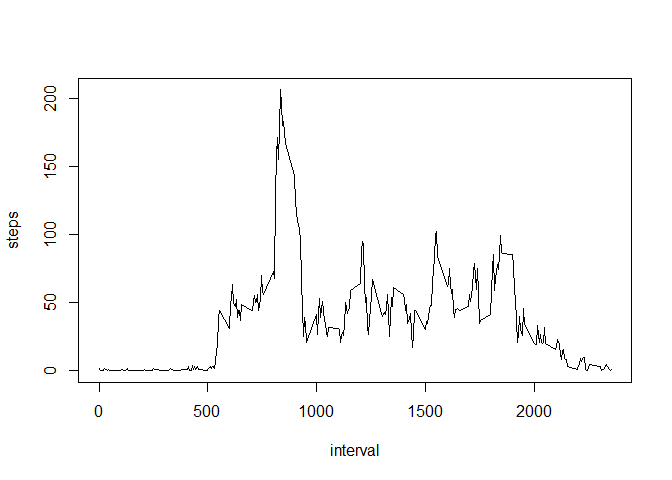
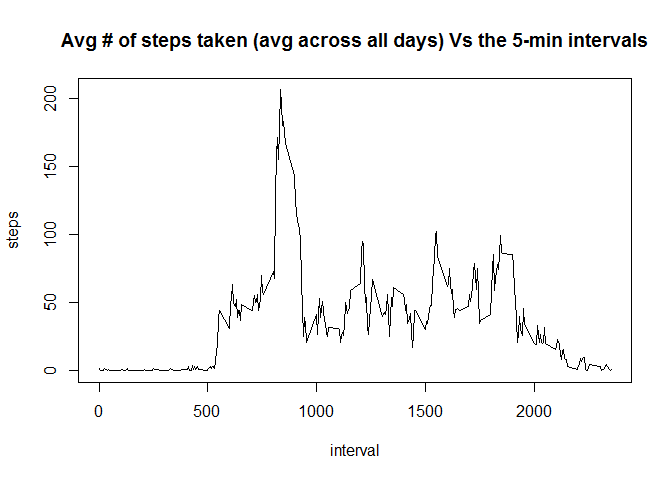
Adjusted some wordings of graph titles to match required answer

Changed region(s): [[0.0938, 0.0625, 0.9688, 0.125]]

diff --git a/PA1_template.html b/PA1_template.html
@@ -75,8 +75,8 @@ options(scipen = 1, digits = 2)</code></pre>
 aggr &lt;- aggregate(steps ~ date, clean, sum)</code></pre>
 <p>Plot the histogram for total number of steps taken per day</p>
 <pre class="r"><code>## Plot the histogram of 'total steps taken per day'
-with(aggr, hist(steps, breaks=seq(0,24000,3000), xlim=c(0,25000), ylim=c(0,20), main=&quot;Total steps taken per day&quot;))</code></pre>
[1 lines of base64/hex data omitted]
+with(aggr, hist(steps, breaks=seq(0,24000,3000), xlim=c(0,25000), ylim=c(0,20), main=&quot;Total number of steps taken each day&quot;))</code></pre>
[1 lines of base64/hex data omitted]
 <pre class="r"><code>## Report the mean and median, rounded to an integer since we cannot have fraction of a step.
 rep.mean &lt;- round(mean(aggr$steps), 0)
 rep.median &lt;- median(aggr$steps)</code></pre>
@@ -92,8 +92,8 @@ rep.median &lt;- median(aggr$steps)</code></pre>
 aggr2 &lt;- aggregate(steps ~ interval, clean, function(x) round(mean(x),0))</code></pre>
 <p>Plot the time series line graph of interval against average steps</p>
 <pre class="r"><code>## Plot the time series line graph of 'average steps taken per interval'
-with(aggr2, plot(interval, steps, type='l'))</code></pre>
[1 lines of base64/hex data omitted]
+with(aggr2, plot(interval, steps, type='l', main=&quot;Avg # of steps taken (avg across all days) Vs the 5-min intervals&quot;))</code></pre>
[1 lines of base64/hex data omitted]
 <pre class="r"><code>## Report which 5-minute interval on average across all days contains the maximum number of steps
 max.steps &lt;- with(aggr2, aggr2[steps==max(steps),])</code></pre>
 <div id="answer-1" class="section level3">
@@ -103,6 +103,8 @@ max.steps &lt;- with(aggr2, aggr2[steps==max(steps),])</code></pre>
 </div>
 <div id="imputing-missing-values" class="section level2">
 <h2>Imputing missing values</h2>
+<div id="strategy-to-fill-in-missing-values" class="section level3">
+<h3>Strategy to fill in missing values</h3>
 <p>Let’s use daily average steps taken for each interval to replace the NAs in the original dataset since we have already obtained the average data.<br />The original dataset is duplicated and merged with the data frame with daily average steps taken for each interval by using the ‘interval’ column as index. This creates an additional column ‘steps.y’ containing the average values for each interval and the original column ‘steps’ is renamed as ‘steps.x’.<br />Next, we copy column ‘steps.y’ to column ‘steps.x’ for only rows with NA.</p>
 <pre class="r"><code>## Duplicate original dataset and merge with data frame (aggr2) containing daily average steps taken for each interval
 dat2 &lt;- dat
@@ -116,11 +118,12 @@ colnames(dat2)[2] &lt;- &quot;steps&quot;</code></pre>
 aggr3 &lt;- aggregate(steps ~ date, dat2, sum)
 
 ## Plot the histogram of 'total steps taken per day'
-with(aggr3, hist(steps, breaks=seq(0,24000,3000), xlim=c(0,25000), ylim=c(0,25), main=&quot;Total steps taken per day&quot;))</code></pre>
[1 lines of base64/hex data omitted]
+with(aggr3, hist(steps, breaks=seq(0,24000,3000), xlim=c(0,25000), ylim=c(0,25), main=&quot;Total number of steps taken each day&quot;))</code></pre>
[1 lines of base64/hex data omitted]
 <pre class="r"><code>## Report the mean and median, rounded to an integer since we cannot have fraction of a step.
 rep.mean2 &lt;- round(mean(aggr3$steps), 0)
 rep.median2 &lt;- median(aggr3$steps)</code></pre>
+</div>
 <div id="answer-2" class="section level3">
 <h3>Answer</h3>
 <p>The mean is <strong>10766</strong> steps and median is <strong>10762</strong> steps.<br />Based on the histogram, the frequency of mean value increased compared to the previous. For the results, the mean value remains unchanged but the median value changed.</p>

diff --git a/PA1_template.md b/PA1_template.md
@@ -28,7 +28,7 @@ Plot the histogram for total number of steps taken per day
 
 ```r
 ## Plot the histogram of 'total steps taken per day'
-with(aggr, hist(steps, breaks=seq(0,24000,3000), xlim=c(0,25000), ylim=c(0,20), main="Total steps taken per day"))
+with(aggr, hist(steps, breaks=seq(0,24000,3000), xlim=c(0,25000), ylim=c(0,20), main="Total number of steps taken each day"))
 ```
 
 ![](figure/unnamed-chunk-3-1.png) 
@@ -53,7 +53,7 @@ Plot the time series line graph of interval against average steps
 
 ```r
 ## Plot the time series line graph of 'average steps taken per interval'
-with(aggr2, plot(interval, steps, type='l'))
+with(aggr2, plot(interval, steps, type='l', main="Avg # of steps taken (avg across all days) Vs the 5-min intervals"))
 ```
 
 ![](figure/unnamed-chunk-5-1.png) 
@@ -66,6 +66,7 @@ max.steps <- with(aggr2, aggr2[steps==max(steps),])
 The interval of **835** contains the maximum number of steps in average (**206** steps).
 
 ## Imputing missing values
+### Strategy to fill in missing values
 Let's use daily average steps taken for each interval to replace the NAs in the original dataset since we have already obtained the average data.  
 The original dataset is duplicated and merged with the data frame with daily average steps taken for each interval by using the 'interval' column as index. This creates an additional column 'steps.y' containing the average values for each interval and the original column 'steps' is renamed as 'steps.x'.  
 Next, we copy column 'steps.y' to column 'steps.x' for only rows with NA.
@@ -86,7 +87,7 @@ Finally, perform the same functions as per the first part. To get the histogram.
 aggr3 <- aggregate(steps ~ date, dat2, sum)
 
 ## Plot the histogram of 'total steps taken per day'
-with(aggr3, hist(steps, breaks=seq(0,24000,3000), xlim=c(0,25000), ylim=c(0,25), main="Total steps taken per day"))
+with(aggr3, hist(steps, breaks=seq(0,24000,3000), xlim=c(0,25000), ylim=c(0,25), main="Total number of steps taken each day"))
 ```
 
 ![](figure/unnamed-chunk-7-1.png) 
